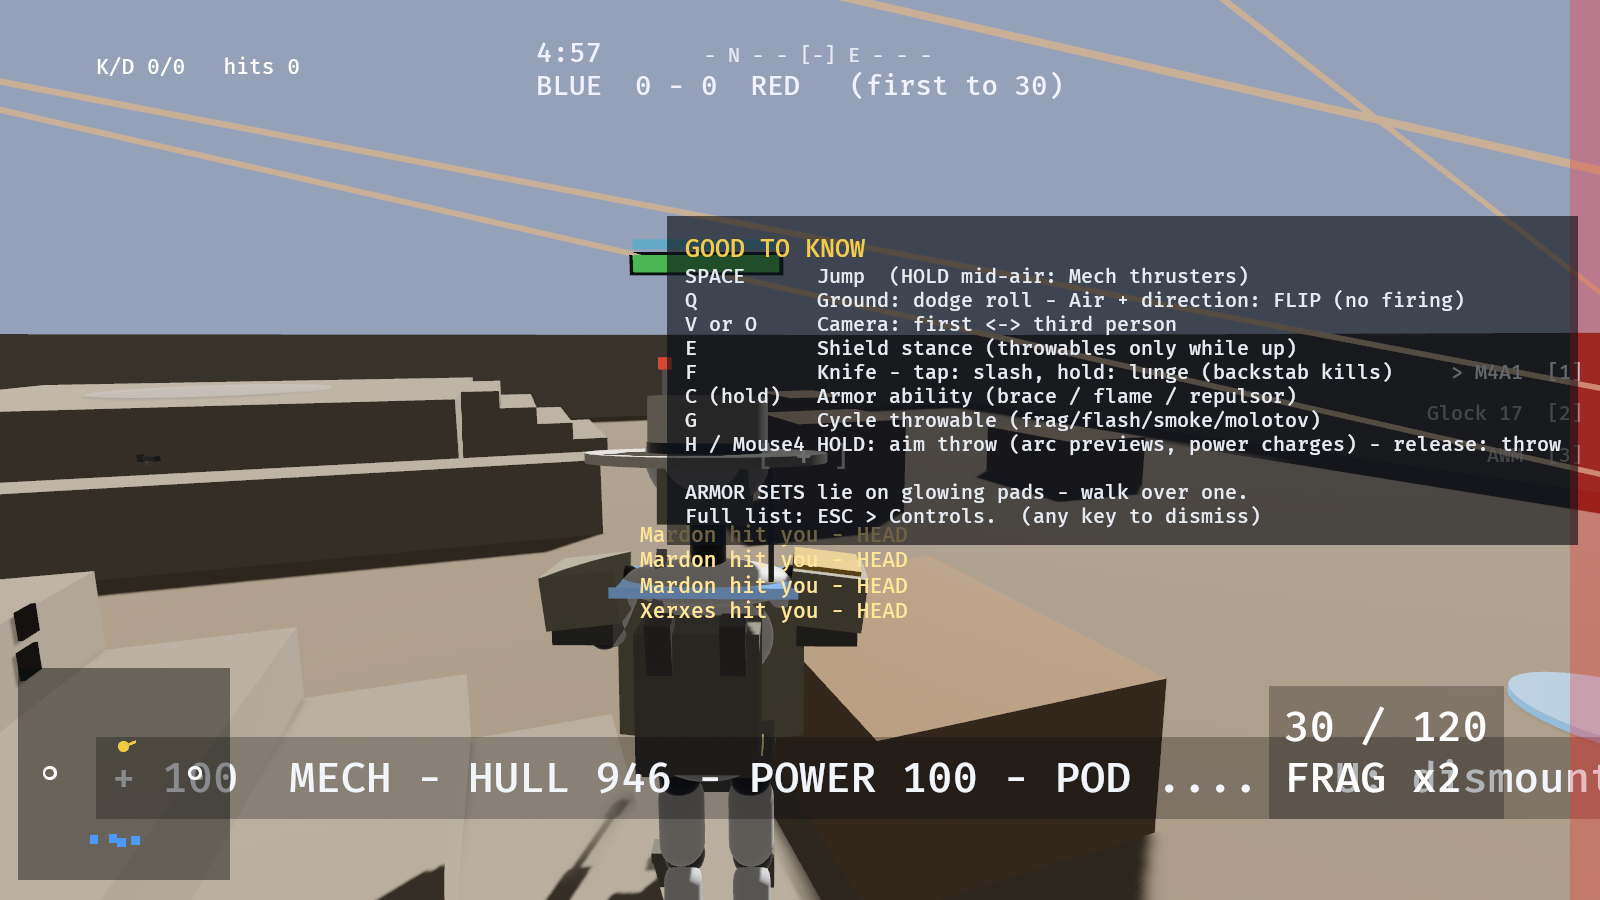
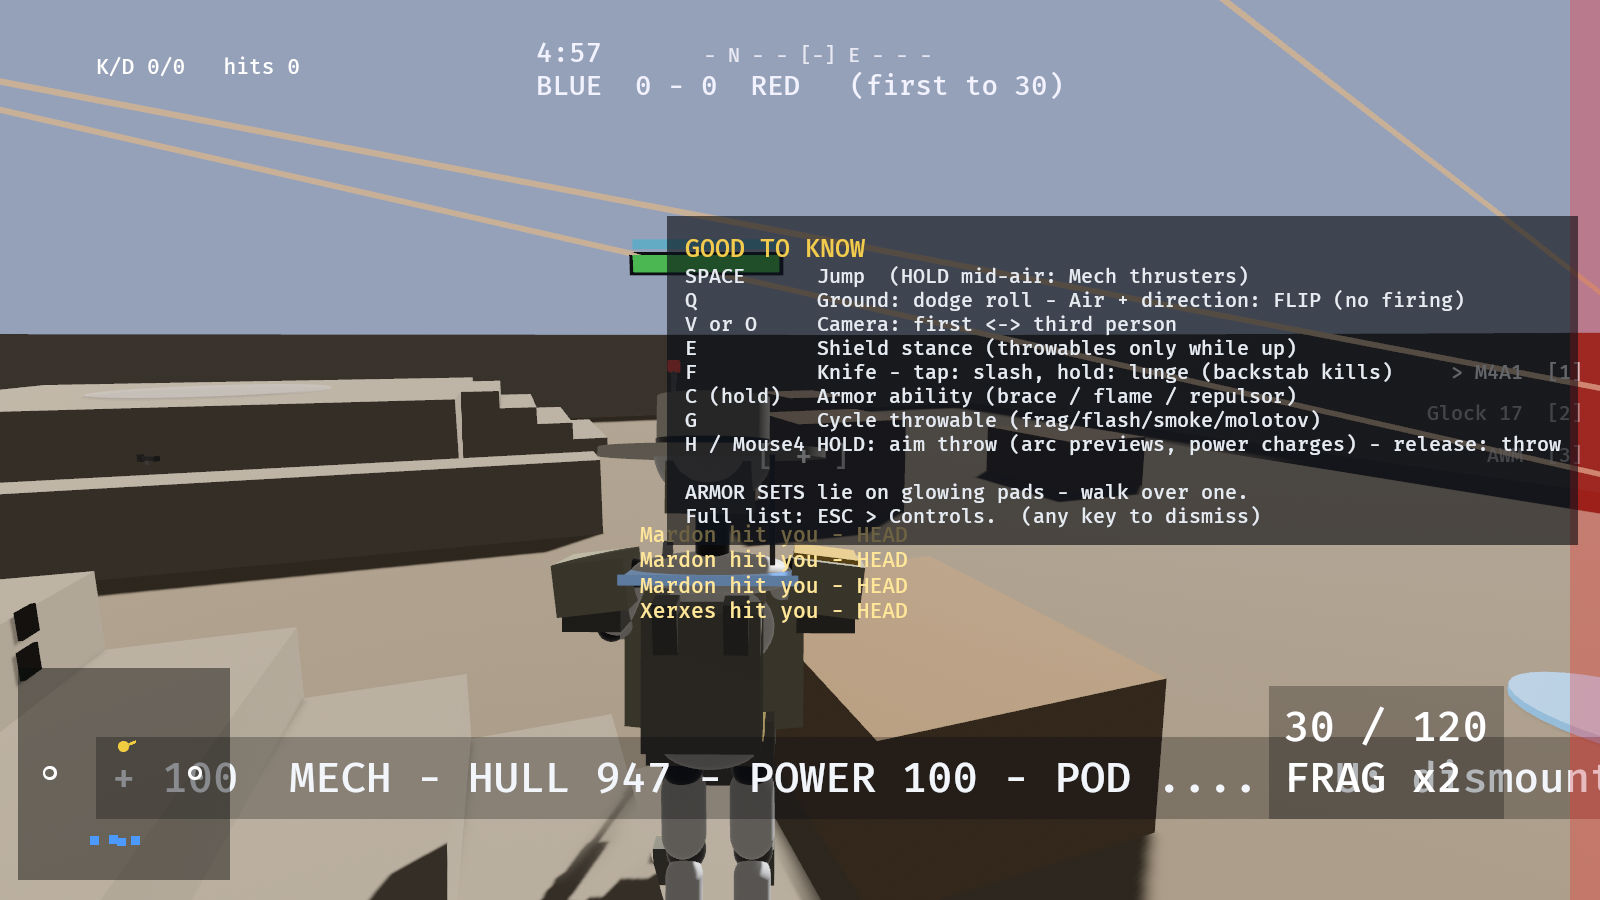
Mech stance lean (Task 5.1): a forward pitch on the mech's root rotation only - "leaning into its own mass" instead of standing level upright, which the doc calls out as losing the silhouette entirely. Cosmetic-only (rotation composition, no sim/collision change). Verified visually: the head dome no

diff --git a/engine/crates/jk_tdm/src/main.rs b/engine/crates/jk_tdm/src/main.rs
@@ -5124,9 +5124,19 @@ fn sync_fighters(
             // lean tilts the whole body sideways off the hips (positive
             // lean = peek screen-right = roll clockwise)
             let lean_roll = Quat::from_rotation_z(f.lean * 0.24);
-            tf.rotation = tf
-                .rotation
-                .slerp(Quat::from_rotation_y(f.yaw) * lean_roll, 0.35);
+            // Task 5.1 (MISSION doc): the mech stands hull-forward, hips
+            // high and set back, leaning INTO its own mass - a level
+            // upright hull loses the silhouette entirely. A soldier's
+            // rotation is untouched (mech_pitch is 0 off-mech).
+            let mech_pitch = if f.armor_set == ArmorSet::RobotSuit && f.hull > 0.0 {
+                0.085
+            } else {
+                0.0
+            };
+            tf.rotation = tf.rotation.slerp(
+                Quat::from_rotation_y(f.yaw) * lean_roll * Quat::from_rotation_x(mech_pitch),
+                0.35,
+            );
         }
         // §11: the MECH is the same rig at walker scale - unmistakable
         tf.scale = Vec3::splat(
